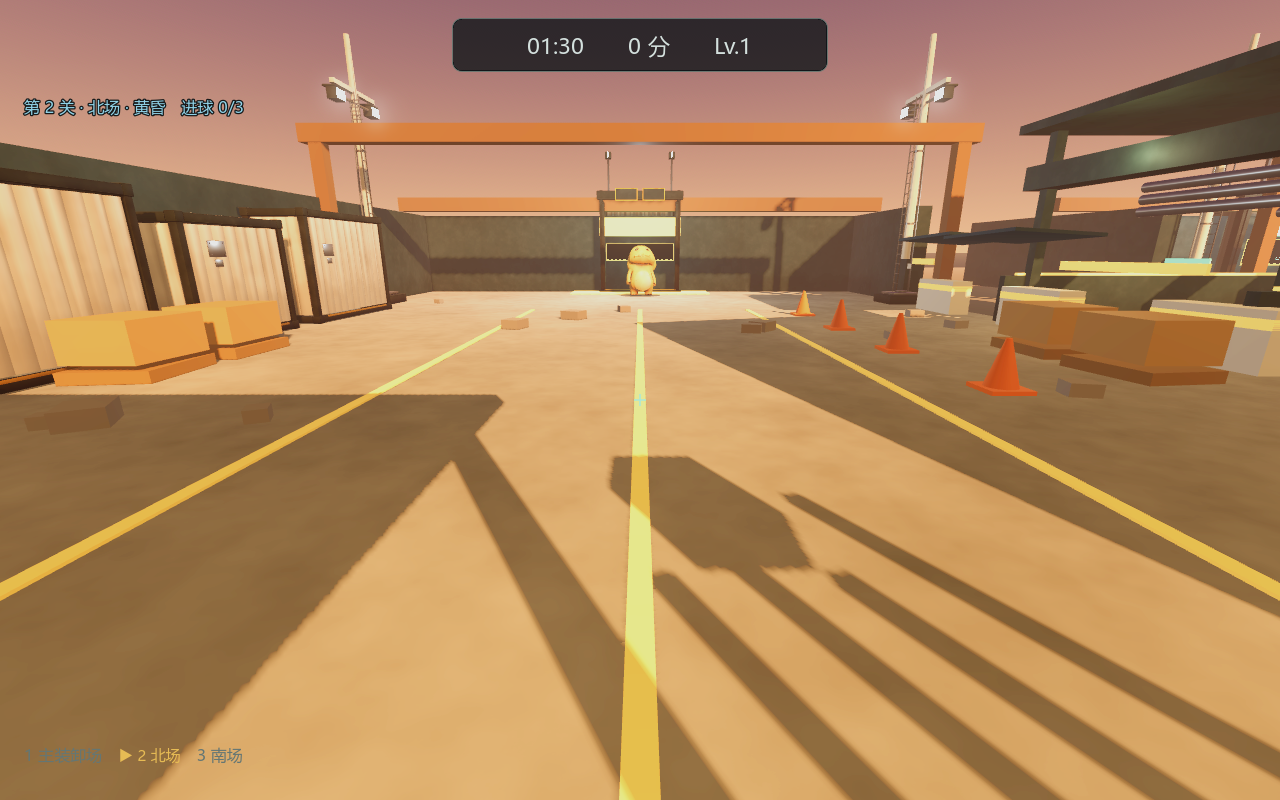
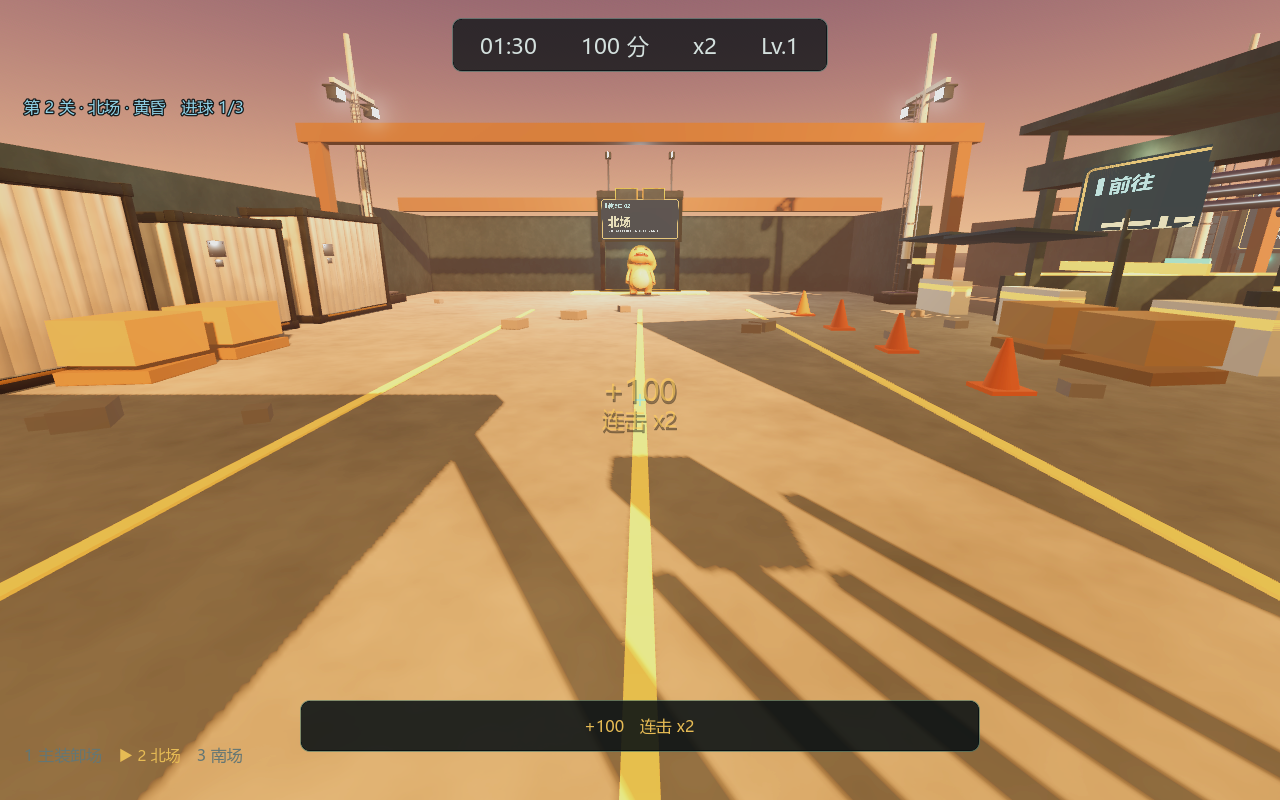
feat(gulu-art): 参考霜烬星标识体系重绘灯箱与指路牌，补 ASSETS 记录
深青底/暖黄描边/标题条；门区灯箱按 2:1 调整，连廊入口立杆指路牌；ASSETS 第 13 节记录新增资产来源与许可。

diff --git a/game/previews/gulu_planet/ASSETS.md b/game/previews/gulu_planet/ASSETS.md
@@ -164,3 +164,17 @@ python tools\audio\make_sfx.py assets\audio
   避免卡通比例与现有写实工业风冲突。
 - 验证：自测 45/0；`tools/probe_dressing.gd` 确认所有装饰贴地且不侵入球路/出生点；
   详见 `docs/ART_PASS_2026-11-23.md`。
+
+## 13. 三图资产（2026-11-26，Blender 灯塔/装货口 + 招牌 + 环境音）
+
+| 资产 | 路径 | 来源 | 许可 |
+| --- | --- | --- | --- |
+| 灯塔（场外场地） | `assets/models/nailong/floodlight_tower.glb` | `art-source/blender/nailong/build_arena_floodlight.py`（Blender 4.5 + 仓库内 aq2kit/aqs_kit 工艺库） | 随项目；无第三方模型/贴图 |
+| 便携装货口 | `assets/models/nailong/arena_gate.glb` | `art-source/blender/nailong/build_arena_gate.py` | 随项目 |
+| 门区灯箱 / 指路牌 | `assets/textures/signs/*.png` | 本仓库 Pillow 脚本烘焙（系统微软雅黑，游戏不分发字体） | 随项目 |
+| 环境底噪 | `assets/audio/amb_wind.wav` | 本仓库脚本合成（低通噪声 + 正弦，无缝循环） | 随项目 |
+| 脚步音 | `assets/audio/footstep.wav` | 本仓库脚本合成 | 随项目 |
+| BGM | `assets/audio/bgm_loop.wav` | `tools/audio/make_bgm.py` 合成 40 s 无缝循环 | 随项目 |
+| 图标 | `icon.png` | 由第 2 关截图裁切缩放生成 | 随项目 |
+
+说明：招牌视觉参考了仓库内霜烬星（`feature/ship-and-frost-2.0`）的标识做法——深青底、暖黄描边、标题条 + 主副文案；图形与文字均为本仓库重新绘制，未复制其 PNG。

diff --git a/game/previews/gulu_planet/STATUS.md b/game/previews/gulu_planet/STATUS.md
@@ -19,6 +19,13 @@
   `--dragon-test` 5/0、`--wind-test` 7/0。
 - 新截图：`docs/shots_p0_2026_11_25/`（A–G 七机位，HUD 已减法）。
 
+## 2026-11-26 · 参考霜烬星标识体系：灯箱招牌 + 指路牌重绘
+
+- 参考 `origin/feat/ship-and-frost-2.0` 的标识做法（深青底、暖黄描边、标题条 + 主副文案、1024×512），
+  重绘了 5 张牌：正门/北场/南场三张门区灯箱，以及「前往 北场 / 南场」两张带箭头的指路牌。
+- 门楣灯箱按 2:1 比例调整尺寸与背板；连廊入口的指路牌改为 2.4×1.2 的立杆牌。
+- `ASSETS.md` 增补第 13 节：记录 Blender 灯塔/装货口、招牌、环境音、脚步、BGM、图标的来源与许可。
+- 全量回归 23 组 **295 项**全绿；单文件 exe 重新导出（166.6 MB，冒烟 0）。
 ## 2026-11-26 · 灯箱招牌 + 连廊入口指路牌
 
 - 门楣招牌升级为**灯箱**：尺寸放大到 `half_width×2.35`、加深色背板、发光贴图（朝场内）。
